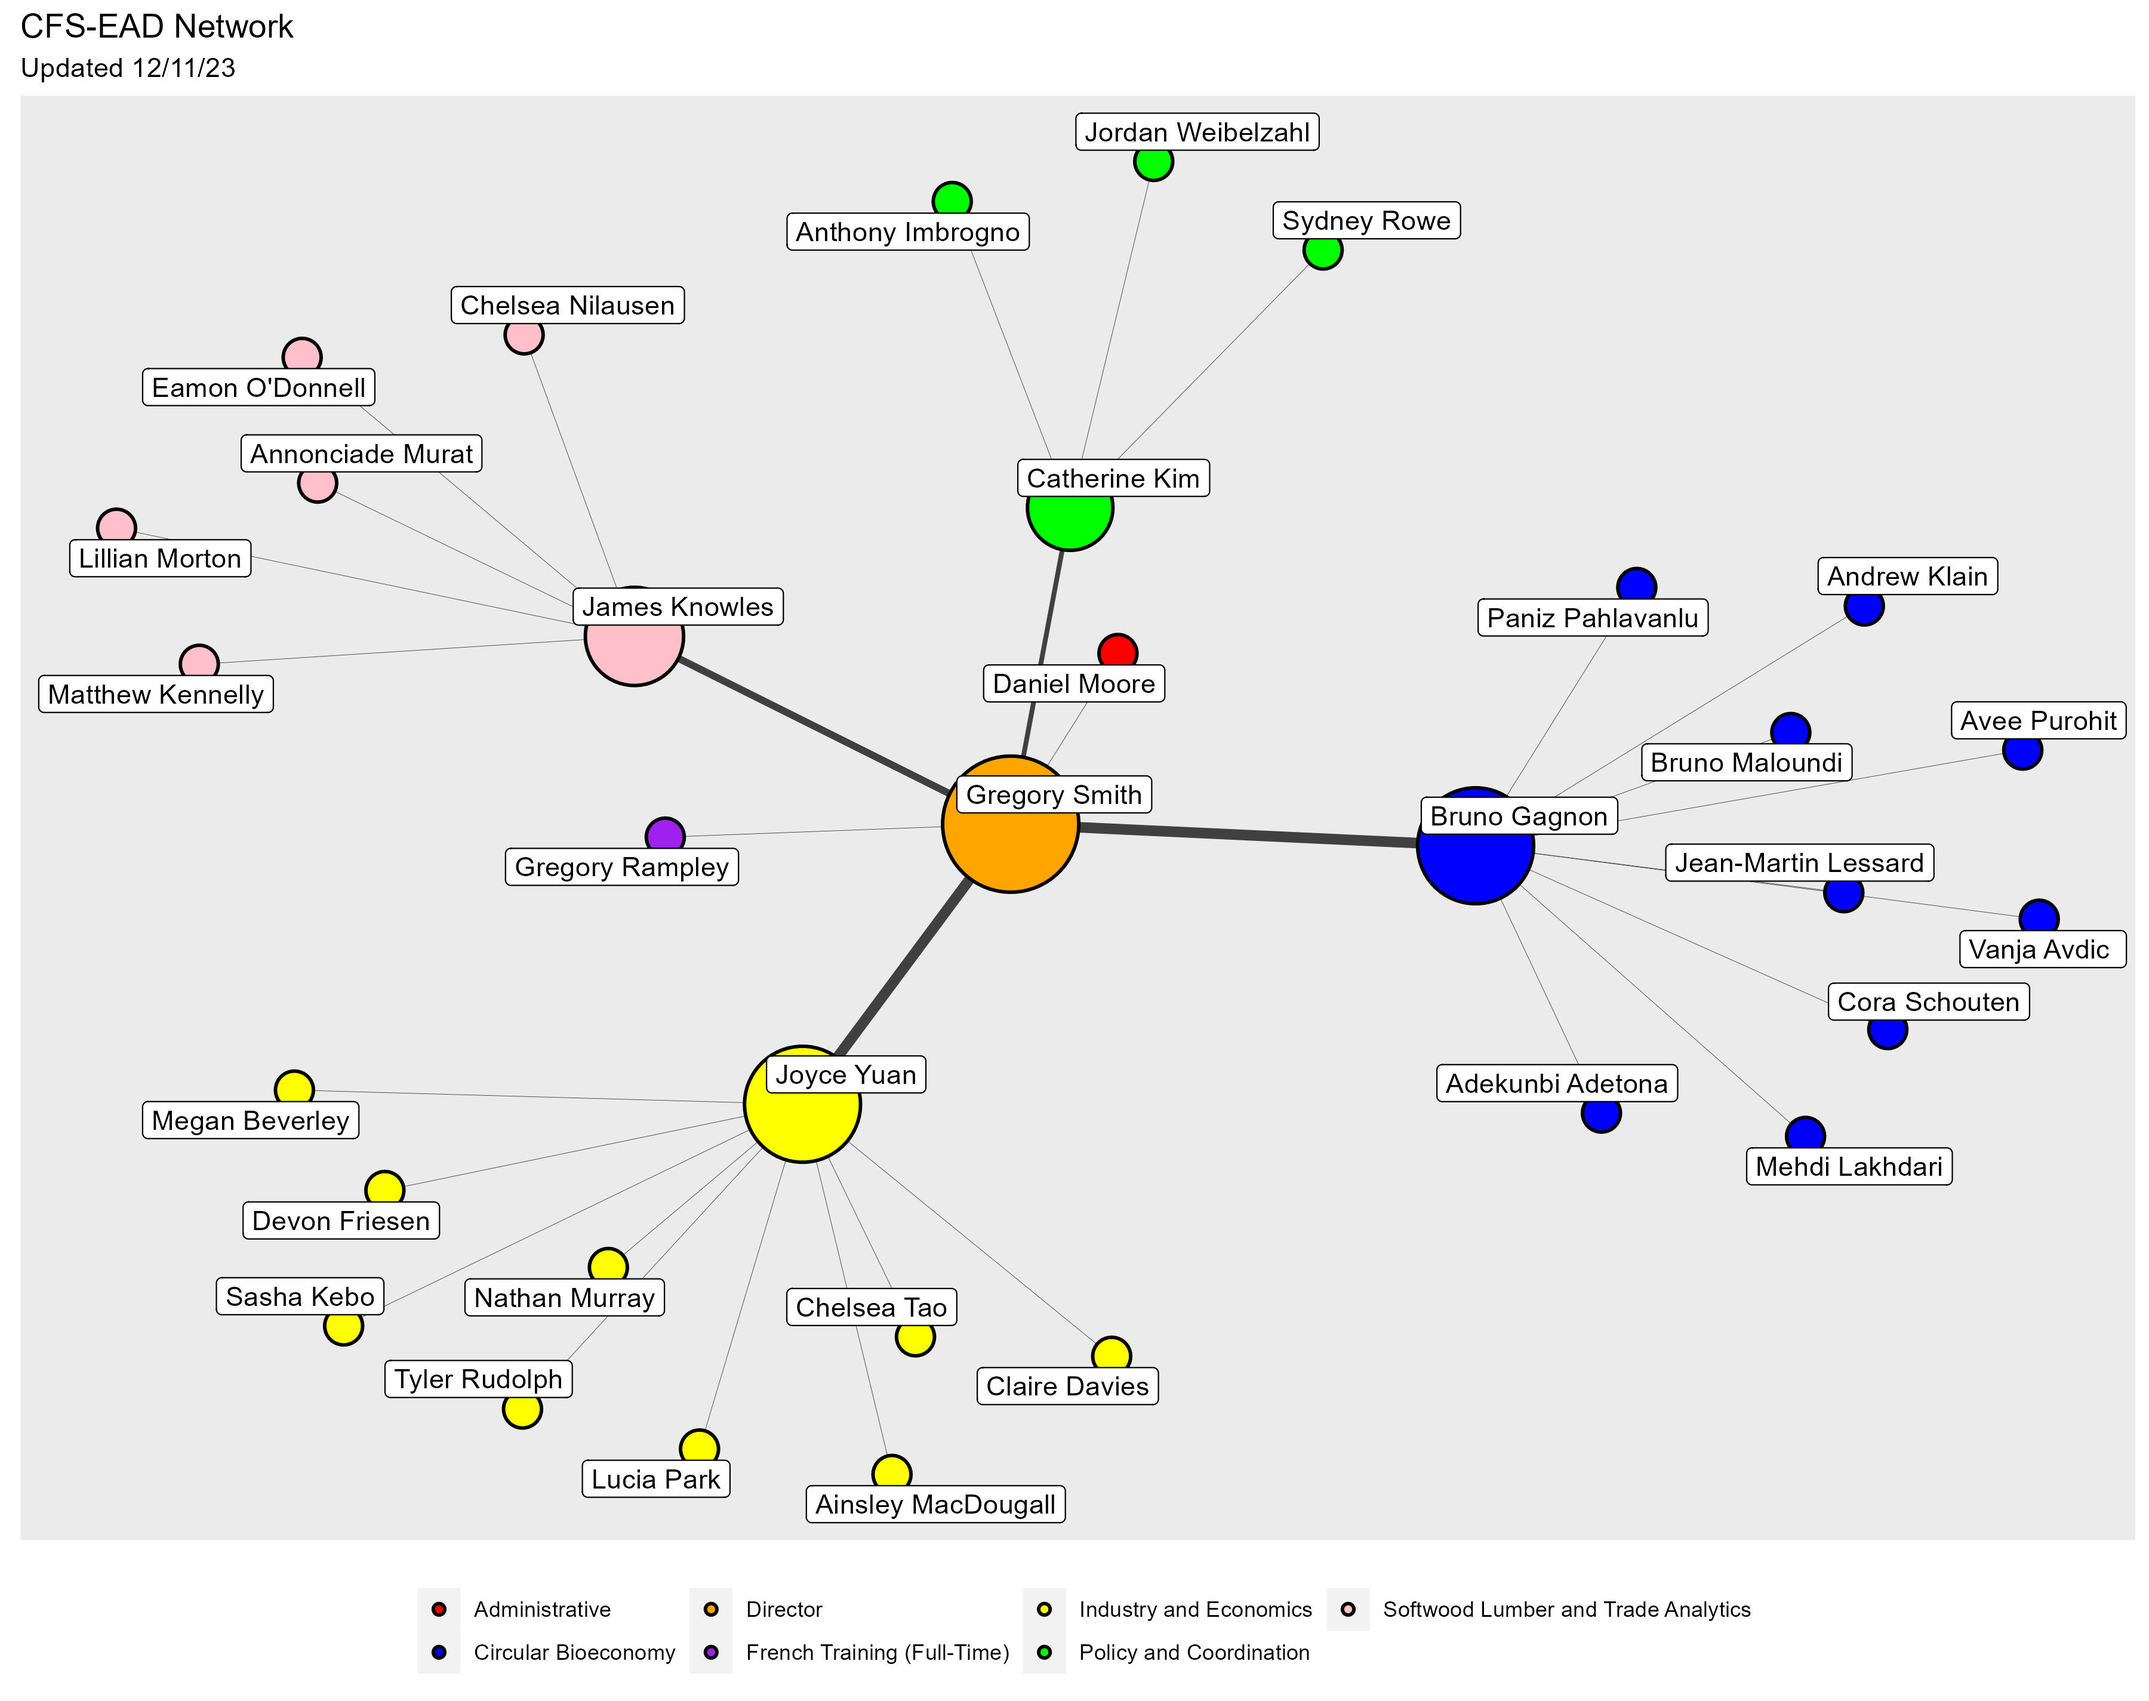
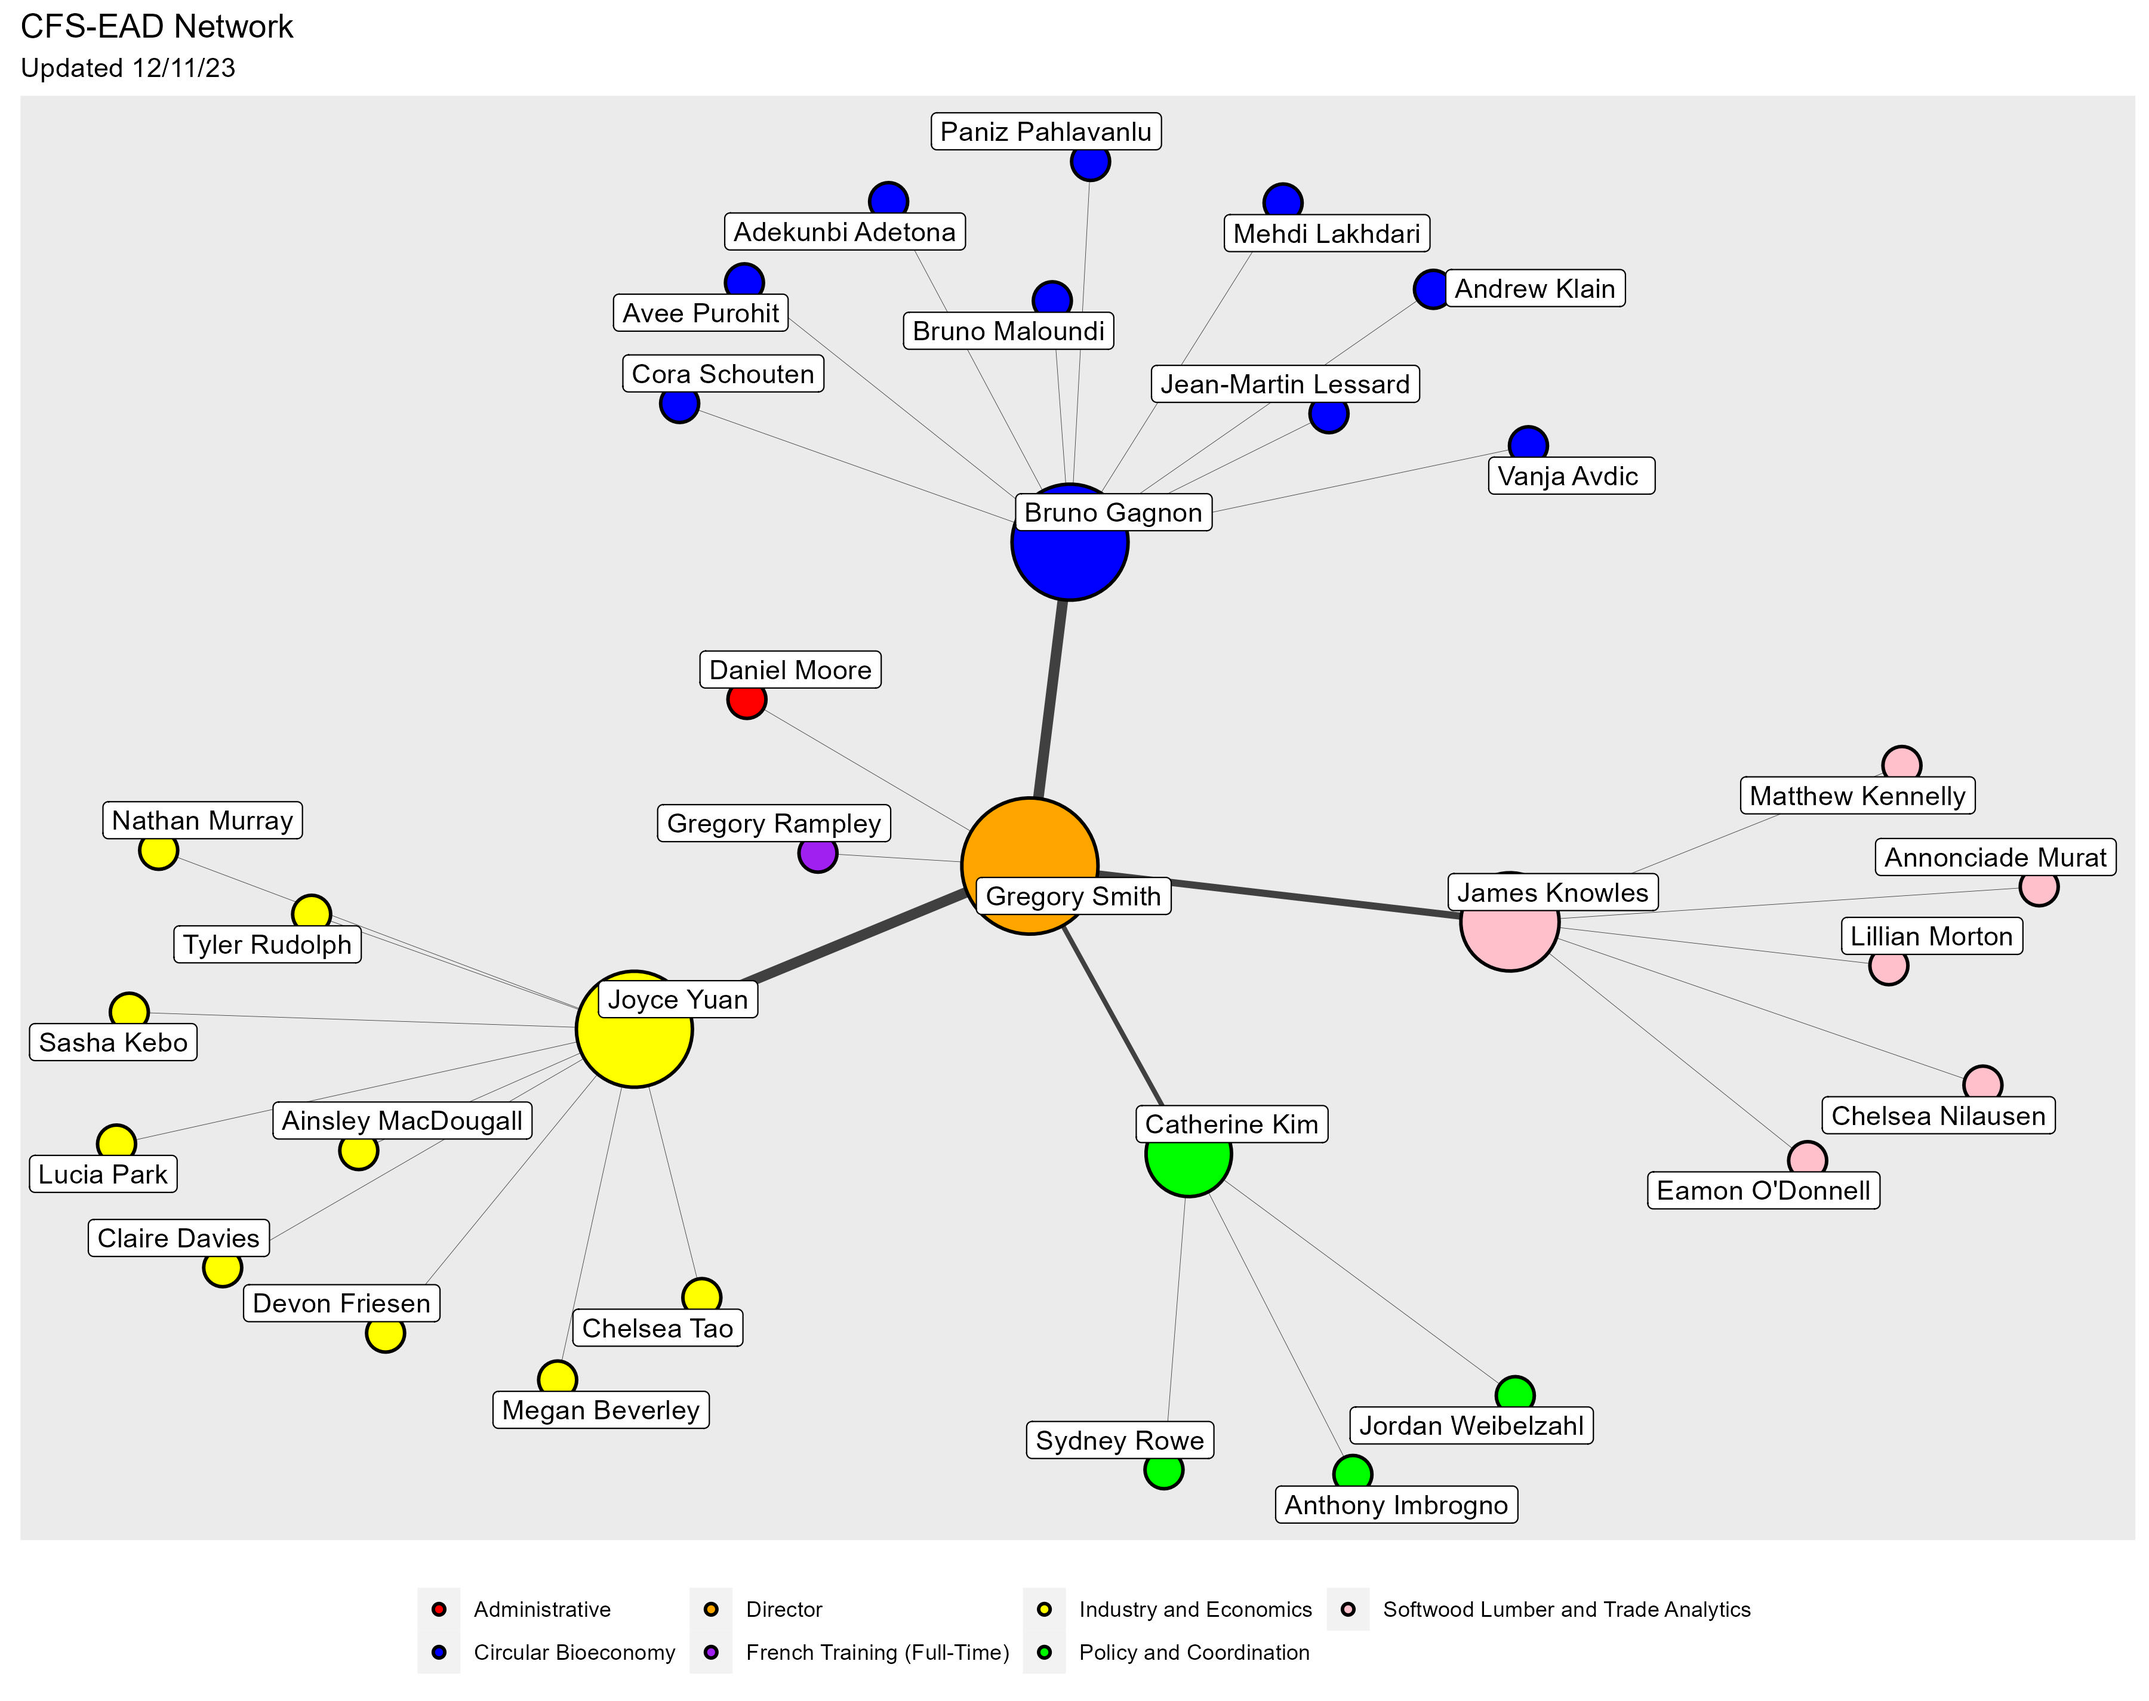
updated README

diff --git a/README.md b/README.md
@@ -1,3 +1,15 @@
-# EAD Network Visualization
-Description: This R script produces a network visualization of all current employees in the Canadian Forest Service - Economic Analysis Division. 
+# CFS-EAD Network Visualization
 
+**Description**
+
+This R script produces a network visualization of all current employees in the Canadian Forest Service - Economic Analysis Division as of December 11, 2023.
+
+Vertices are placed on the plane using a force-directed Fruchterman-Reingold layout algorithm, resulting in adjacent/connected vertices (i.e. employees within the same team) positioned near each other and non-adjacent vertices positioned further apart. Employees are organized and colour-coded by team. The size of vertices and the width of connecting edges are scaled based on betweenness centrality, resulting in nodes with more geodesic (shortest path) connections being larger.
+
+**Input Data Sources**
+
+Both the vector and edge list are author-created and refer to information provided by the [EAD Organizational Chart](https://041gc.sharepoint.com/:p:/r/sites/CFS-SCF/_layouts/15/Doc.aspx?sourcedoc=%7B63C0E5C1-9147-4E81-B00D-38447E11205B%7D&file=CFS%20-%20EAD%20-%20Org%20Chart.pptx&action=edit&mobileredirect=true). Vector attributes include employee name, team, and job title (not visualized), and the edge list contains connections from directors to managers, and managers to employees.
+
+**Results**
+
+![](output/EAD_Network_Plot.jpg){width="559"}
